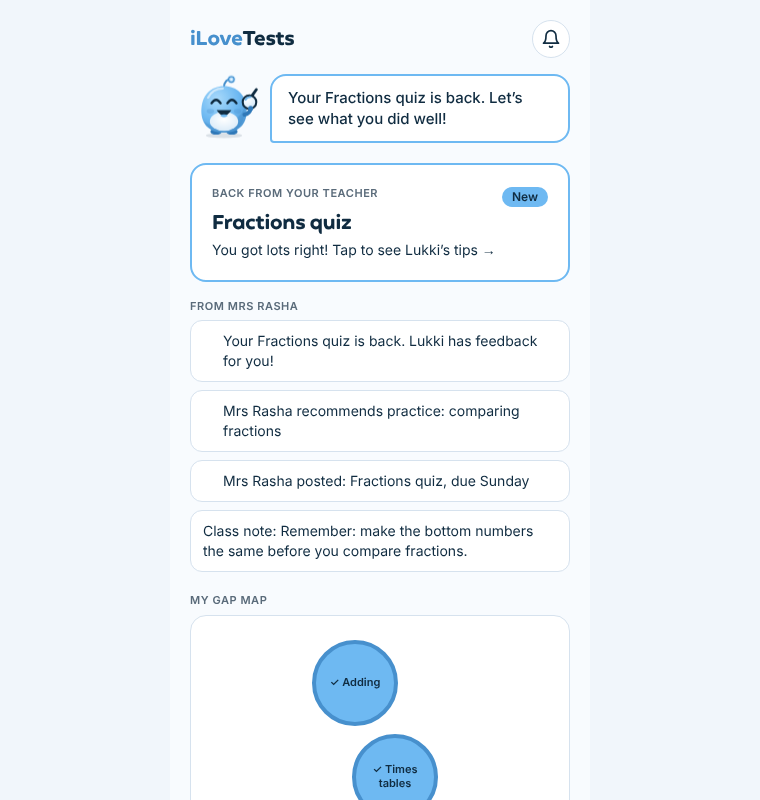
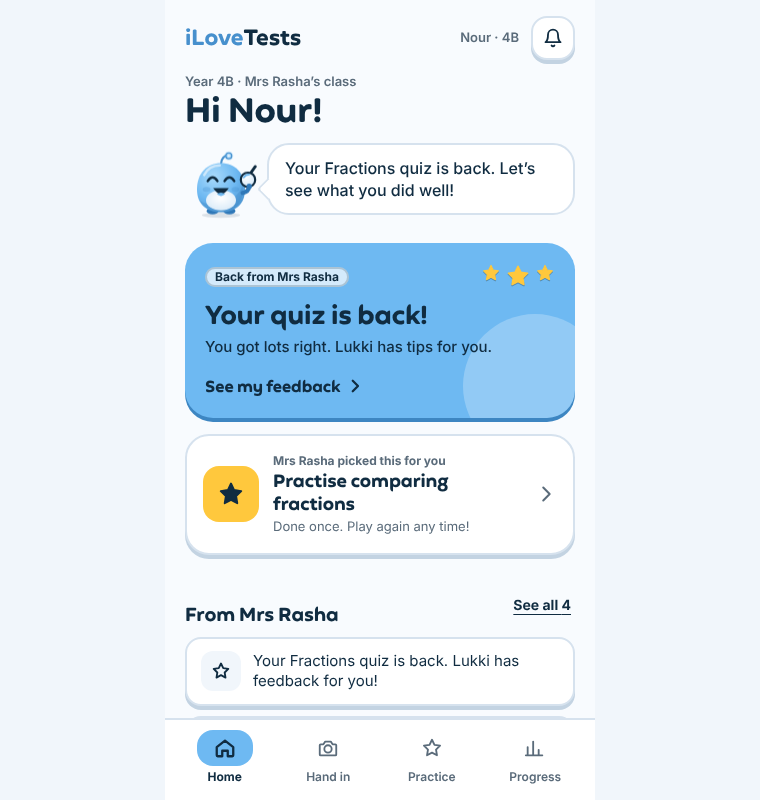
Regenerate README media for the new student view; note Nunito
Claude-Session: https://claude.ai/code/session_01T8CSMuZacJVu1oWujKuV8q

diff --git a/README.md b/README.md
@@ -95,7 +95,7 @@ Light boxes are what the AI suggests. Dark boxes are people. Nothing reaches a p
 | Framework | [Next.js 16](https://nextjs.org) App Router, exported as a static site |
 | UI | React 19, TypeScript 5.9, Tailwind CSS 4 |
 | State | React context and a reducer, saved to local storage |
-| Fonts | Inter and Patrick Hand via Fontsource (SIL OFL); Feather Bold if installed |
+| Fonts | Inter, Nunito and Patrick Hand via Fontsource (SIL OFL); Feather Bold if installed |
 | Hosting | Vercel, with security headers in [`vercel.json`](vercel.json) |
 
 ## Run it locally
@@ -182,7 +182,7 @@ Teacher persona: Mrs Rasha ElNahas, Maadi Narmer School, used with her permissio
 
 Code: [MIT](LICENSE). Lukki, the mascot, is our own design.
 
-Inter and Patrick Hand are used under the SIL Open Font Licence via Fontsource.
+Inter, Nunito and Patrick Hand are used under the SIL Open Font Licence via Fontsource.
 Our headings use Duolingo's Feather Bold (Fontsmith End User Licence Agreement). Its licence does not allow us to publish the font file, so it is not in this repository; the site uses it only if it is installed on your computer and falls back to Inter otherwise.
 
 We wrote this prototype with help from Claude (Cowork) and reviewed, tested and edited all of it. The full AI history is linked in our Phase 3 report.
